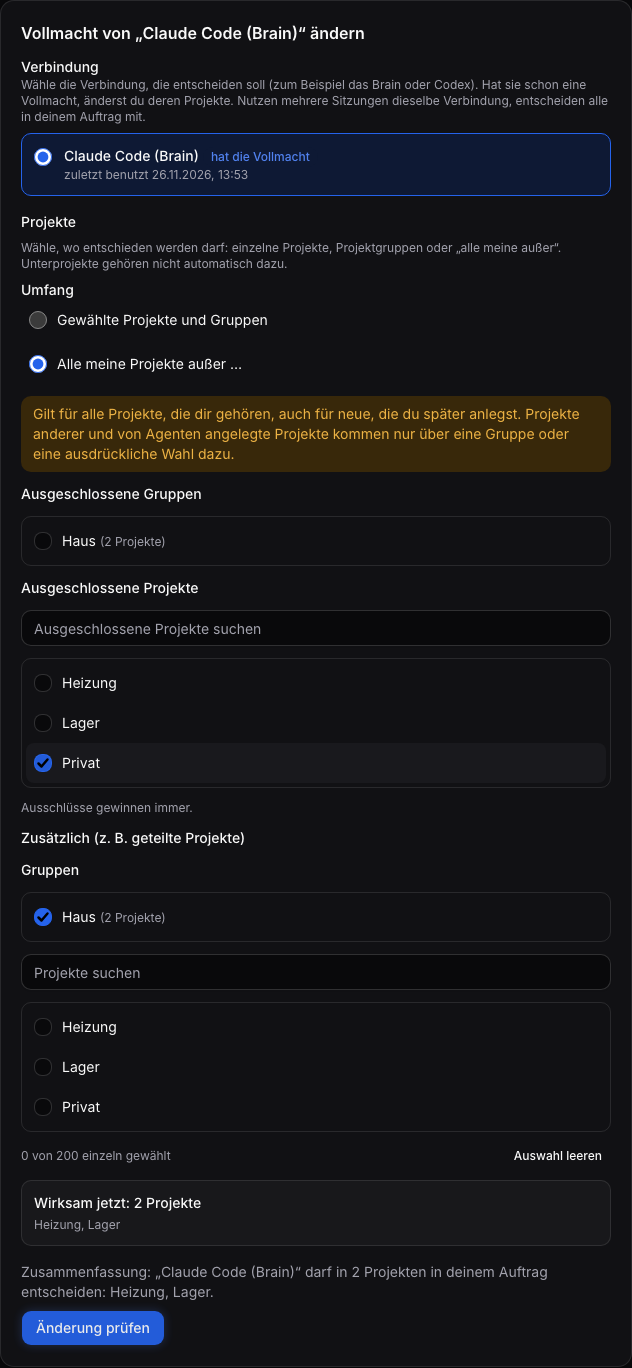
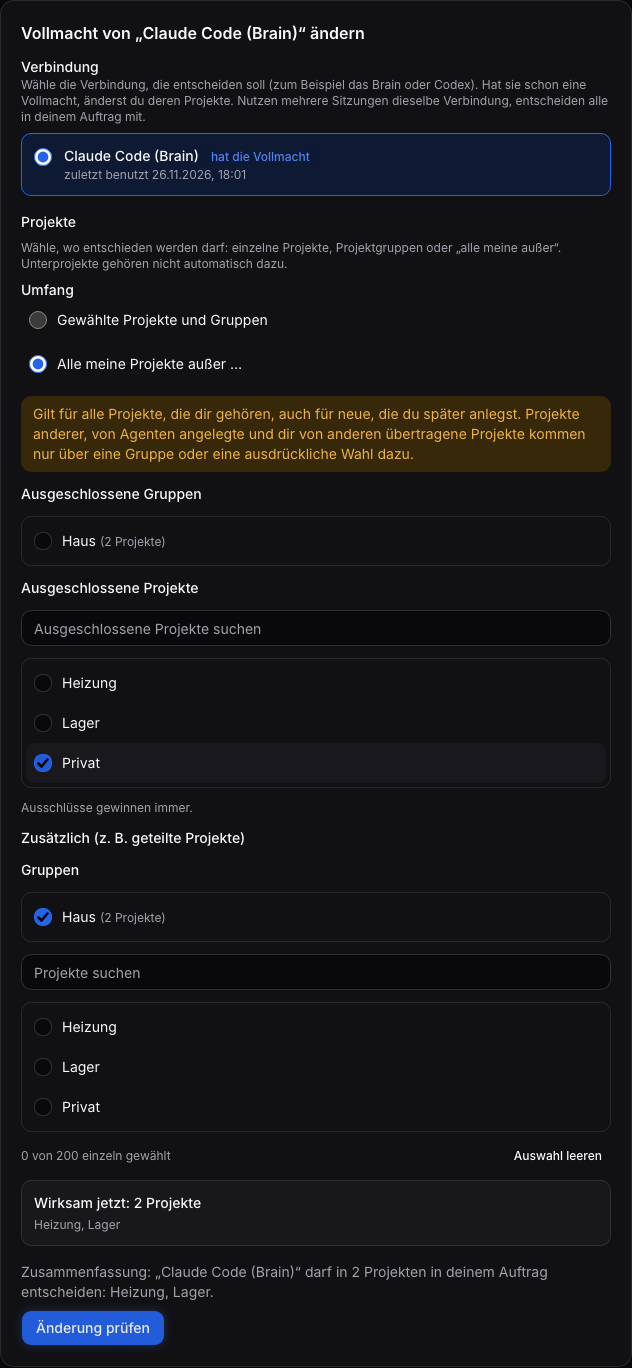
Karte 0E5CCA05: Bilder Vollmacht „alle außer“ mit neuem Hinweis, STATUS-Checkpoint (Playwright project-groups 9/9 je Chromium, Firefox, WebKit; MariaDB 177/0)

Changed region(s): [[0.0601, 0.307, 0.9019, 0.3377]]

diff --git a/docs/STATUS.md b/docs/STATUS.md
@@ -1,5 +1,17 @@
 # Status
 
+## Nachtrag 26.11.2026 (18:10): Security-Befunde Projektgruppen behoben (Karte 0E5CCA05; kein Push, kein Deploy)
+
+- Branch `t3/projektgruppen-security-fixes` ab `main` `1d95172`: Review-Tests `c5a56a4` (Cherry-Pick von `5f7df48`), rot `0381873`, grün `2728179`, Bilder/Checkpoint danach. Details und Begründung: ADR 0037 „Nachtrag 26.11.2026“.
+- Befund 1: Von einer anderen Person angelegte und übertragene Projekte fallen nicht mehr automatisch unter „alle außer“ (Verbindung und Brain-Vollmacht); Erkennung über `projects.owner_id` (Anlegende), deckt alle Übertragungswege ab. Vorschau und Hinweistexte (PWA, Zustimmungsseite) nennen sie. Bestand: früher übertragene Projekte fallen heraus (enger).
+- Befund 2: Einzelentfernen scheitert nie an der Grenze 500 und räumt gelöschte Projekte aus der Ausschlussliste; Speichern prüft gegen `max(500, bisherige Anzahl)`, Vorschau ohne Grenze. Grenze für Tests senkbar (Test 100 s → 0,3 s).
+- Befund 3: Teilen-Fenster lädt Verbindungen und Regeln nur von Personen mit Leserecht (`ConnectionService.candidateGrants`).
+- Verträge: `connections.yaml` 1.9.0; Agenten-Handbuch unverändert (MCP-Verhalten gleich, Menge höchstens enger).
+- Rot: Review-Tests rc 1 (2 Fehler, 101,9 s); mit neuen Tests rc 1 (5 Tests, 8 Fehler). Grün: Filter 5/5; volle `swift test` (SQLite) 1039 Tests, 26 übersprungen, 0 Fehler, rc 0; MariaDB 12.3 (Wegwerf-Container, samt Volume entfernt) `ProjectGroup|Connection|BrainMandate|OAuth|Sharing` 177 Tests, 2 übersprungen, 0 Fehler, rc 0; web: check 0 Fehler, vitest 812/812, build rc 0; Playwright `project-groups` 9/9 in Chromium, Firefox, WebKit (natives Backend, frische SQLite, Produktions-Build); Bilder `vollmacht-alle-ausser` hell/dunkel angesehen.
+- Restrisiken (ADR): Kontolöschung der anlegenden Person macht ein übertragenes Projekt zum eigenen; MariaDB 1020 bei gleichzeitigem Löschen schlägt geschlossen fehl.
+- Nicht geprüft: CI, Docker/Linux, volle MariaDB-Suite, übrige E2E-Specs, Apple-App.
+- Nächster Schritt: Prüfung und Merge durch die Hauptsession; Review/Deploy bei Lino.
+
 ## Nachtrag 26.11.2026 (14:35): BEF08998 komplett in `main`, CI grün, Review offen (kein Deploy)
 
 - Projektgruppen (Teil 3) gemergt und gepusht: `4a3f2ec` (Dateistand identisch mit geprüftem Branchstand `d803ff4`: swift 1034 Tests, 26 übersprungen, 0 Fehler; MariaDB gezielt 214/0; vitest 812/812; check/build ok; E2E `project-groups` je 9/9 und `mandate-relogin` je 7/7 in Chromium, Firefox, WebKit).
